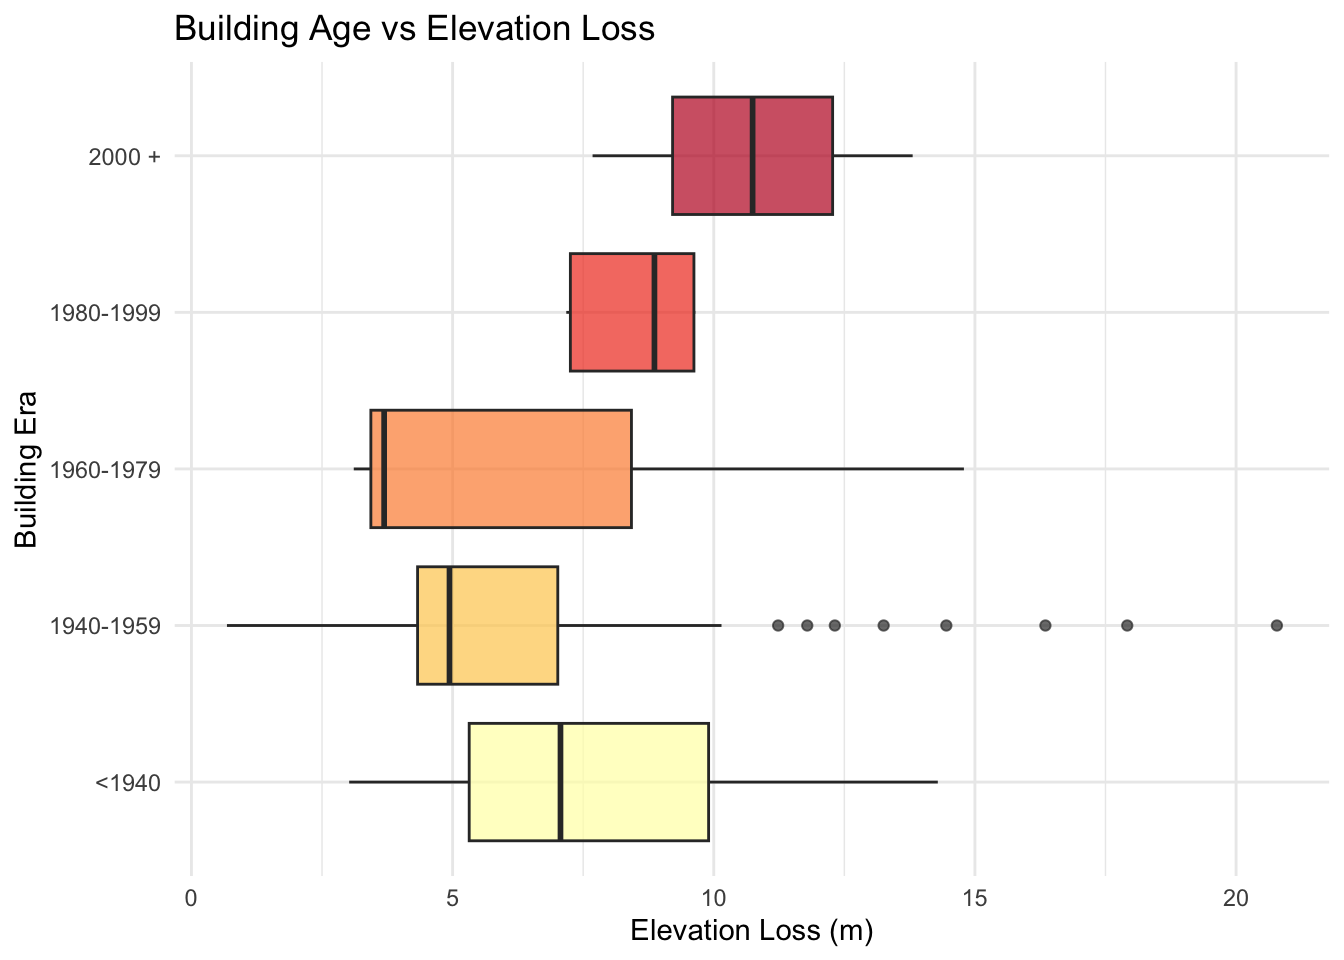
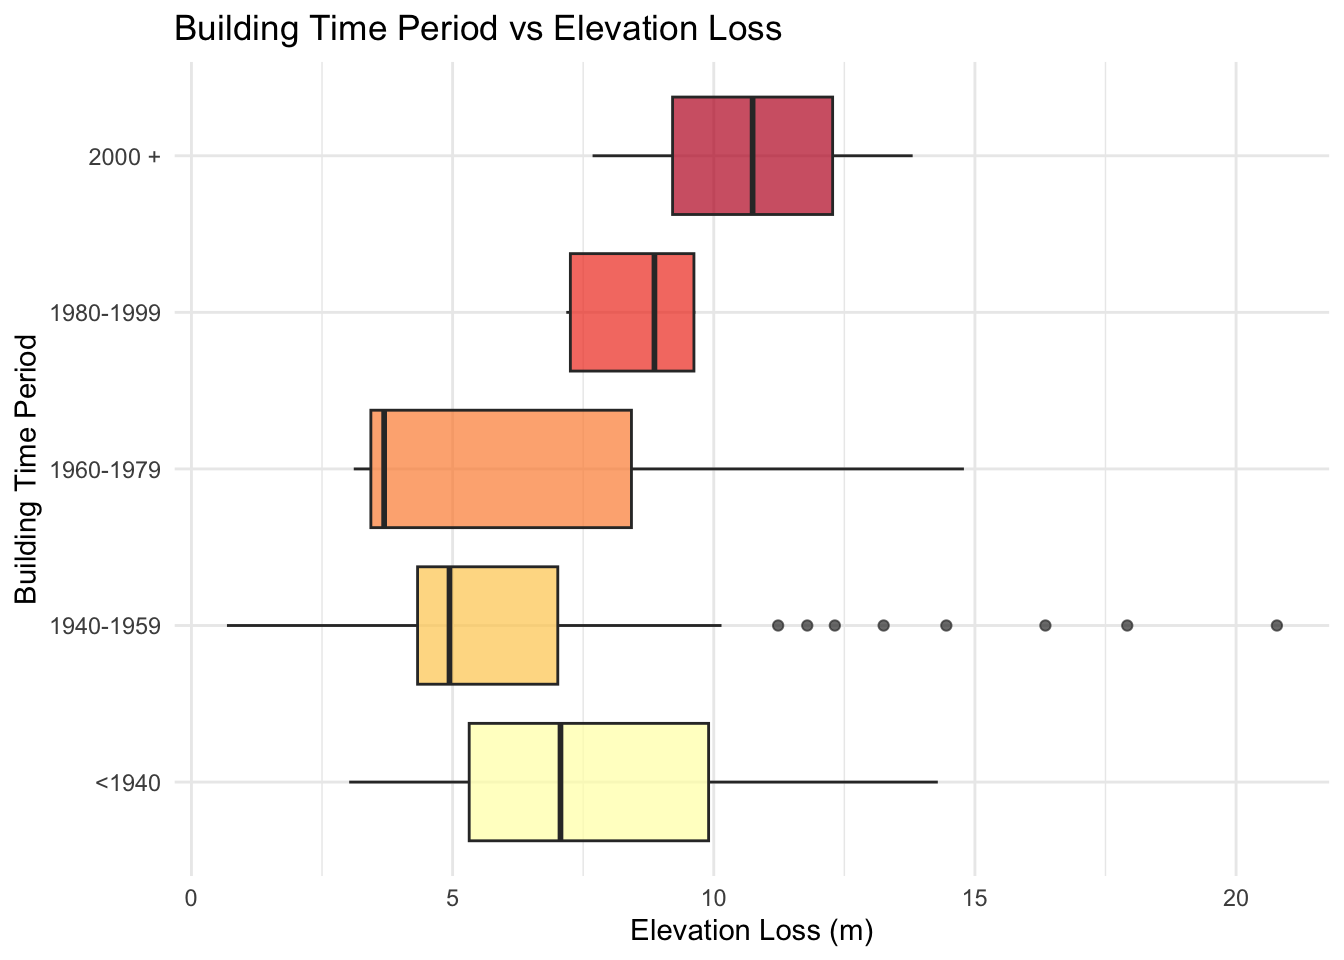
Finish lab 9

Changed region(s): [[0.2188, 0.0, 0.5938, 0.0625], [0.0, 0.3438, 0.0312, 0.625]]

diff --git a/docs/course-materials/labs/week9.html b/docs/course-materials/labs/week9.html
@@ -414,6 +414,8 @@ pre > code.sourceCode > span > a:first-child::before { text-decoration: underlin
 <span id="cb8-11"><a href="#cb8-11" aria-hidden="true" tabindex="-1"></a>                          <span class="at">upper =</span>quantiles[<span class="dv">1</span>,<span class="dv">2</span>] )</span></code></pre></div><button title="Copy to Clipboard" class="code-copy-button"><i class="bi"></i></button></div>
 </div>
 <div class="cell">
+<details class="code-fold">
+<summary>Code</summary>
 <div class="code-copy-outer-scaffold"><div class="sourceCode cell-code" id="cb9"><pre class="sourceCode r code-with-copy"><code class="sourceCode r"><span id="cb9-1"><a href="#cb9-1" aria-hidden="true" tabindex="-1"></a><span class="co"># Create fire damage color palette</span></span>
 <span id="cb9-2"><a href="#cb9-2" aria-hidden="true" tabindex="-1"></a>fire_palette <span class="ot">&lt;-</span> <span class="fu">c</span>(<span class="st">"#8B0000"</span>, <span class="st">"#FF4500"</span>, <span class="st">"#FF6347"</span>, <span class="st">"#FFFFFF"</span>, </span>
 <span id="cb9-3"><a href="#cb9-3" aria-hidden="true" tabindex="-1"></a>                  <span class="st">"#87CEEB"</span>, <span class="st">"#4169E1"</span>, <span class="st">"#00008B"</span>)</span>
@@ -438,6 +440,7 @@ pre > code.sourceCode > span > a:first-child::before { text-decoration: underlin
 <span id="cb9-22"><a href="#cb9-22" aria-hidden="true" tabindex="-1"></a>             <span class="at">position =</span> <span class="fu">c</span>(<span class="st">"left"</span>, <span class="st">"bottom"</span>))</span>
 <span id="cb9-23"><a href="#cb9-23" aria-hidden="true" tabindex="-1"></a></span>
 <span id="cb9-24"><a href="#cb9-24" aria-hidden="true" tabindex="-1"></a>tm_dsm</span></code></pre></div><button title="Copy to Clipboard" class="code-copy-button"><i class="bi"></i></button></div>
+</details>
 <div class="cell-output cell-output-stderr">
 <pre><code>SpatRaster object downsampled to 2479 by 4036 cells.</code></pre>
 </div>
@@ -497,51 +500,46 @@ pre > code.sourceCode > span > a:first-child::before { text-decoration: underlin
 <span id="cb13-2"><a href="#cb13-2" aria-hidden="true" tabindex="-1"></a>damage_buffers <span class="ot">&lt;-</span> <span class="fu">st_buffer</span>(damage, <span class="at">dist =</span> <span class="dv">6</span>)</span>
 <span id="cb13-3"><a href="#cb13-3" aria-hidden="true" tabindex="-1"></a></span>
 <span id="cb13-4"><a href="#cb13-4" aria-hidden="true" tabindex="-1"></a><span class="co"># Extract minimum and mean elevation loss for each building buffer</span></span>
-<span id="cb13-5"><a href="#cb13-5" aria-hidden="true" tabindex="-1"></a>lidar_min <span class="ot">&lt;-</span> terra<span class="sc">::</span><span class="fu">extract</span>(diff_dsm, <span class="fu">vect</span>(damage_buffers), <span class="at">fun =</span> min, <span class="at">na.rm =</span> <span class="cn">TRUE</span>)</span>
-<span id="cb13-6"><a href="#cb13-6" aria-hidden="true" tabindex="-1"></a>lidar_mean <span class="ot">&lt;-</span> terra<span class="sc">::</span><span class="fu">extract</span>(diff_dsm, <span class="fu">vect</span>(damage_buffers), <span class="at">fun =</span> mean, <span class="at">na.rm =</span> <span class="cn">TRUE</span>)</span></code></pre></div><button title="Copy to Clipboard" class="code-copy-button"><i class="bi"></i></button></div>
+<span id="cb13-5"><a href="#cb13-5" aria-hidden="true" tabindex="-1"></a>lidar_min <span class="ot">&lt;-</span> terra<span class="sc">::</span><span class="fu">extract</span>(diff_dsm, damage_buffers, <span class="at">fun =</span> min, <span class="at">na.rm =</span> <span class="cn">TRUE</span>)</span></code></pre></div><button title="Copy to Clipboard" class="code-copy-button"><i class="bi"></i></button></div>
 </div>
 <div class="cell">
 <div class="code-copy-outer-scaffold"><div class="sourceCode cell-code" id="cb14"><pre class="sourceCode r code-with-copy"><code class="sourceCode r"><span id="cb14-1"><a href="#cb14-1" aria-hidden="true" tabindex="-1"></a><span class="co"># Create dataframe of largest and average elevation change for each building buffer</span></span>
 <span id="cb14-2"><a href="#cb14-2" aria-hidden="true" tabindex="-1"></a>damage_analysis <span class="ot">&lt;-</span> damage_buffers <span class="sc">%&gt;%</span></span>
 <span id="cb14-3"><a href="#cb14-3" aria-hidden="true" tabindex="-1"></a>  <span class="fu">mutate</span>(</span>
 <span id="cb14-4"><a href="#cb14-4" aria-hidden="true" tabindex="-1"></a>    <span class="at">lidar_min_change =</span> lidar_min[[<span class="dv">2</span>]],</span>
-<span id="cb14-5"><a href="#cb14-5" aria-hidden="true" tabindex="-1"></a>    <span class="at">lidar_mean_change =</span> lidar_mean[[<span class="dv">2</span>]],</span>
-<span id="cb14-6"><a href="#cb14-6" aria-hidden="true" tabindex="-1"></a>    <span class="at">elevation_loss =</span> <span class="fu">abs</span>(lidar_min_change)</span>
-<span id="cb14-7"><a href="#cb14-7" aria-hidden="true" tabindex="-1"></a>  )</span></code></pre></div><button title="Copy to Clipboard" class="code-copy-button"><i class="bi"></i></button></div>
+<span id="cb14-5"><a href="#cb14-5" aria-hidden="true" tabindex="-1"></a>    <span class="at">elevation_loss =</span> <span class="fu">abs</span>(lidar_min_change)</span>
+<span id="cb14-6"><a href="#cb14-6" aria-hidden="true" tabindex="-1"></a>  )</span></code></pre></div><button title="Copy to Clipboard" class="code-copy-button"><i class="bi"></i></button></div>
 </div>
 <div class="cell">
+<details class="code-fold">
+<summary>Code</summary>
 <div class="code-copy-outer-scaffold"><div class="sourceCode cell-code" id="cb15"><pre class="sourceCode r code-with-copy"><code class="sourceCode r"><span id="cb15-1"><a href="#cb15-1" aria-hidden="true" tabindex="-1"></a><span class="co"># Create plot of elevation loss based on year built</span></span>
 <span id="cb15-2"><a href="#cb15-2" aria-hidden="true" tabindex="-1"></a></span>
 <span id="cb15-3"><a href="#cb15-3" aria-hidden="true" tabindex="-1"></a>damage_plot <span class="ot">&lt;-</span> damage_analysis <span class="sc">%&gt;%</span> </span>
 <span id="cb15-4"><a href="#cb15-4" aria-hidden="true" tabindex="-1"></a>         <span class="fu">st_drop_geometry</span>() <span class="sc">%&gt;%</span></span>
 <span id="cb15-5"><a href="#cb15-5" aria-hidden="true" tabindex="-1"></a>         <span class="fu">filter</span>(<span class="sc">!</span><span class="fu">is.na</span>(YEARBUILT)) <span class="sc">%&gt;%</span></span>
 <span id="cb15-6"><a href="#cb15-6" aria-hidden="true" tabindex="-1"></a>         <span class="fu">mutate</span>(</span>
-<span id="cb15-7"><a href="#cb15-7" aria-hidden="true" tabindex="-1"></a>           <span class="at">age_category =</span> <span class="fu">case_when</span>(</span>
+<span id="cb15-7"><a href="#cb15-7" aria-hidden="true" tabindex="-1"></a>           <span class="at">age_category =</span> <span class="fu">factor</span>(<span class="fu">case_when</span>(</span>
 <span id="cb15-8"><a href="#cb15-8" aria-hidden="true" tabindex="-1"></a>             YEARBUILT <span class="sc">&gt;=</span> <span class="dv">2000</span> <span class="sc">~</span> <span class="st">"2000 +"</span>,</span>
 <span id="cb15-9"><a href="#cb15-9" aria-hidden="true" tabindex="-1"></a>             YEARBUILT <span class="sc">&gt;=</span> <span class="dv">1980</span> <span class="sc">~</span> <span class="st">"1980-1999"</span>,</span>
 <span id="cb15-10"><a href="#cb15-10" aria-hidden="true" tabindex="-1"></a>             YEARBUILT <span class="sc">&gt;=</span> <span class="dv">1960</span> <span class="sc">~</span> <span class="st">"1960-1979"</span>,</span>
 <span id="cb15-11"><a href="#cb15-11" aria-hidden="true" tabindex="-1"></a>             YEARBUILT <span class="sc">&gt;=</span> <span class="dv">1940</span> <span class="sc">~</span> <span class="st">"1940-1959"</span>,</span>
 <span id="cb15-12"><a href="#cb15-12" aria-hidden="true" tabindex="-1"></a>             <span class="cn">TRUE</span> <span class="sc">~</span> <span class="st">"&lt;1940"</span></span>
-<span id="cb15-13"><a href="#cb15-13" aria-hidden="true" tabindex="-1"></a>           ),</span>
-<span id="cb15-14"><a href="#cb15-14" aria-hidden="true" tabindex="-1"></a>           <span class="at">age_category =</span> <span class="fu">factor</span>(age_category, </span>
-<span id="cb15-15"><a href="#cb15-15" aria-hidden="true" tabindex="-1"></a>                                <span class="at">levels =</span> <span class="fu">c</span>(<span class="st">"&lt;1940"</span>, </span>
-<span id="cb15-16"><a href="#cb15-16" aria-hidden="true" tabindex="-1"></a>                                         <span class="st">"1940-1959"</span>,</span>
-<span id="cb15-17"><a href="#cb15-17" aria-hidden="true" tabindex="-1"></a>                                         <span class="st">"1960-1979"</span>, </span>
-<span id="cb15-18"><a href="#cb15-18" aria-hidden="true" tabindex="-1"></a>                                         <span class="st">"1980-1999"</span>,</span>
-<span id="cb15-19"><a href="#cb15-19" aria-hidden="true" tabindex="-1"></a>                                         <span class="st">"2000 +"</span>))</span>
-<span id="cb15-20"><a href="#cb15-20" aria-hidden="true" tabindex="-1"></a>         )</span>
-<span id="cb15-21"><a href="#cb15-21" aria-hidden="true" tabindex="-1"></a><span class="fu">ggplot</span>(damage_plot,</span>
-<span id="cb15-22"><a href="#cb15-22" aria-hidden="true" tabindex="-1"></a>       <span class="fu">aes</span>(<span class="at">x =</span> age_category, <span class="at">y =</span> elevation_loss, <span class="at">fill =</span> age_category)) <span class="sc">+</span></span>
-<span id="cb15-23"><a href="#cb15-23" aria-hidden="true" tabindex="-1"></a>  <span class="fu">geom_boxplot</span>(<span class="at">alpha =</span> <span class="fl">0.7</span>) <span class="sc">+</span></span>
-<span id="cb15-24"><a href="#cb15-24" aria-hidden="true" tabindex="-1"></a>  <span class="fu">scale_fill_brewer</span>(<span class="at">palette =</span> <span class="st">"YlOrRd"</span>) <span class="sc">+</span></span>
-<span id="cb15-25"><a href="#cb15-25" aria-hidden="true" tabindex="-1"></a>  <span class="fu">coord_flip</span>() <span class="sc">+</span></span>
-<span id="cb15-26"><a href="#cb15-26" aria-hidden="true" tabindex="-1"></a>  <span class="fu">labs</span>(</span>
-<span id="cb15-27"><a href="#cb15-27" aria-hidden="true" tabindex="-1"></a>    <span class="at">title =</span> <span class="st">'Building Age vs Elevation Loss'</span>,</span>
-<span id="cb15-28"><a href="#cb15-28" aria-hidden="true" tabindex="-1"></a>    <span class="at">x =</span> <span class="st">'Building Era'</span>, </span>
-<span id="cb15-29"><a href="#cb15-29" aria-hidden="true" tabindex="-1"></a>    <span class="at">y =</span> <span class="st">'Elevation Loss (m)'</span></span>
-<span id="cb15-30"><a href="#cb15-30" aria-hidden="true" tabindex="-1"></a>  ) <span class="sc">+</span></span>
-<span id="cb15-31"><a href="#cb15-31" aria-hidden="true" tabindex="-1"></a>  <span class="fu">theme_minimal</span>() <span class="sc">+</span></span>
-<span id="cb15-32"><a href="#cb15-32" aria-hidden="true" tabindex="-1"></a>  <span class="fu">theme</span>(<span class="at">legend.position =</span> <span class="st">"none"</span>)</span></code></pre></div><button title="Copy to Clipboard" class="code-copy-button"><i class="bi"></i></button></div>
+<span id="cb15-13"><a href="#cb15-13" aria-hidden="true" tabindex="-1"></a>           )))</span>
+<span id="cb15-14"><a href="#cb15-14" aria-hidden="true" tabindex="-1"></a>         </span>
+<span id="cb15-15"><a href="#cb15-15" aria-hidden="true" tabindex="-1"></a><span class="fu">ggplot</span>(damage_plot,</span>
+<span id="cb15-16"><a href="#cb15-16" aria-hidden="true" tabindex="-1"></a>       <span class="fu">aes</span>(<span class="at">x =</span> age_category, <span class="at">y =</span> elevation_loss, <span class="at">fill =</span> age_category)) <span class="sc">+</span></span>
+<span id="cb15-17"><a href="#cb15-17" aria-hidden="true" tabindex="-1"></a>  <span class="fu">geom_boxplot</span>(<span class="at">alpha =</span> <span class="fl">0.7</span>) <span class="sc">+</span></span>
+<span id="cb15-18"><a href="#cb15-18" aria-hidden="true" tabindex="-1"></a>  <span class="fu">scale_fill_brewer</span>(<span class="at">palette =</span> <span class="st">"YlOrRd"</span>) <span class="sc">+</span></span>
+<span id="cb15-19"><a href="#cb15-19" aria-hidden="true" tabindex="-1"></a>  <span class="fu">coord_flip</span>() <span class="sc">+</span></span>
+<span id="cb15-20"><a href="#cb15-20" aria-hidden="true" tabindex="-1"></a>  <span class="fu">labs</span>(</span>
+<span id="cb15-21"><a href="#cb15-21" aria-hidden="true" tabindex="-1"></a>    <span class="at">title =</span> <span class="st">'Building Time Period vs Elevation Loss'</span>,</span>
+<span id="cb15-22"><a href="#cb15-22" aria-hidden="true" tabindex="-1"></a>    <span class="at">x =</span> <span class="st">'Building Time Period'</span>, </span>
+<span id="cb15-23"><a href="#cb15-23" aria-hidden="true" tabindex="-1"></a>    <span class="at">y =</span> <span class="st">'Elevation Loss (m)'</span></span>
+<span id="cb15-24"><a href="#cb15-24" aria-hidden="true" tabindex="-1"></a>  ) <span class="sc">+</span></span>
+<span id="cb15-25"><a href="#cb15-25" aria-hidden="true" tabindex="-1"></a>  <span class="fu">theme_minimal</span>() <span class="sc">+</span></span>
+<span id="cb15-26"><a href="#cb15-26" aria-hidden="true" tabindex="-1"></a>  <span class="fu">theme</span>(<span class="at">legend.position =</span> <span class="st">"none"</span>)</span></code></pre></div><button title="Copy to Clipboard" class="code-copy-button"><i class="bi"></i></button></div>
+</details>
 <div class="cell-output-display">
 <div>
 <figure class="figure">
